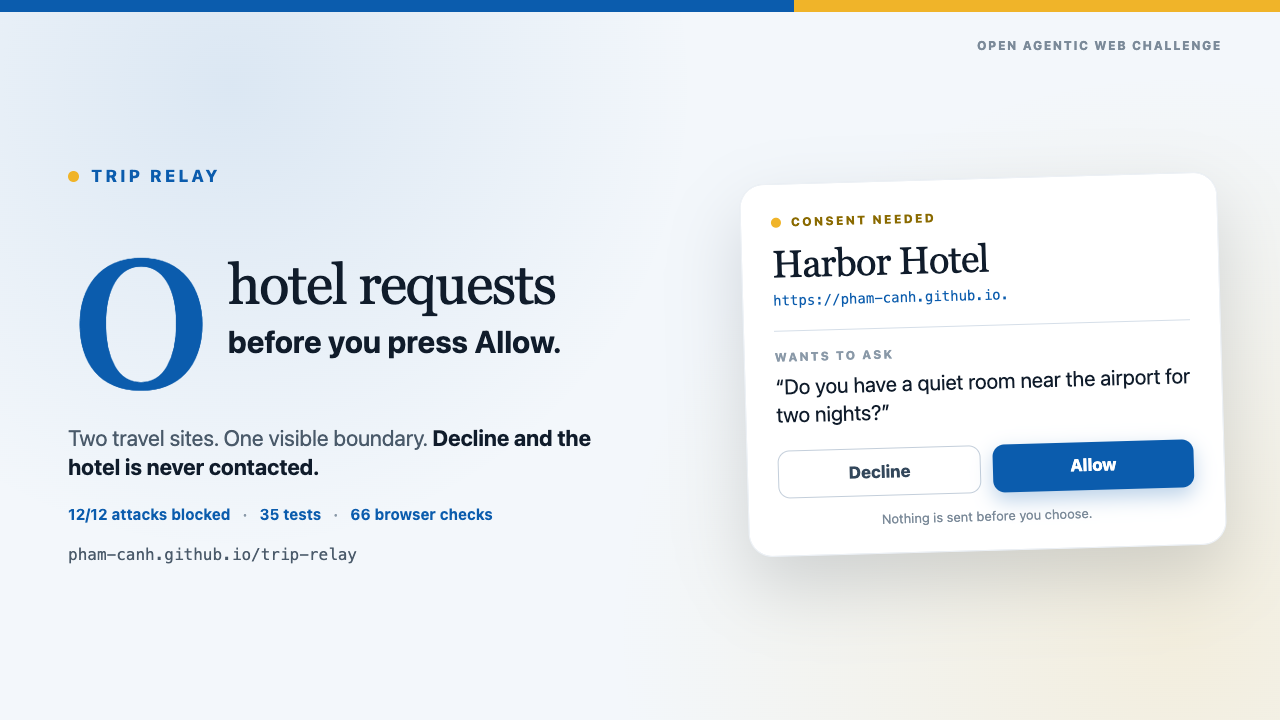
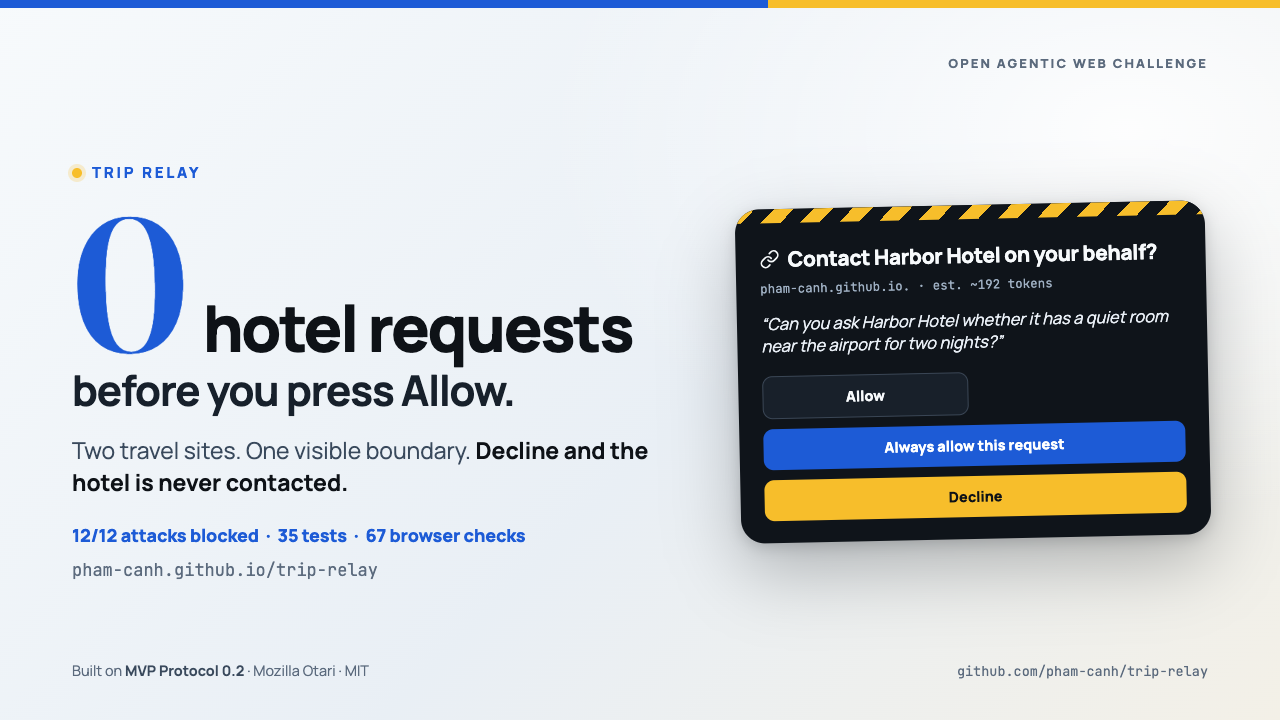
Refresh the social card and YouTube thumbnail
Use the redesigned dark consent card and the measured 67-check count, so
the public preview matches the deployed UI and the current evidence.

diff --git a/docs/SUBMIT.md b/docs/SUBMIT.md
@@ -106,6 +106,6 @@ The tests and the video use a scripted endpoint; they do not claim a live Otari 
 - [x] No API key appears in the repository or the Devpost copy; the recording uses a scripted endpoint.
 - [ ] The social preview is uploaded in **Settings → Social preview** (`docs/social-preview.png`).
 - [x] The Devpost form is submitted before the deadline; keep the confirmation email.
-- [ ] Update the live Devpost story at <https://devpost.com/software/trip-relay>: it still says 14 tests and a 16-check pass. Follow the field-by-field edit sheet in [`docs/DEVPOST-EDIT.md`](DEVPOST-EDIT.md); add the Privacy receipt and keyless-demo bullets, and add the missing `privacy-receipt.png` to the gallery.
+- [ ] Update the live Devpost story at <https://devpost.com/software/trip-relay>: it still says 14 tests, a 16-check pass, and the old tagline. Follow the field-by-field edit sheet in [`docs/DEVPOST-EDIT.md`](DEVPOST-EDIT.md); add the Privacy receipt and keyless-demo bullets, and replace the gallery with the seven recaptured images.
 - [ ] Fix the Devpost **Built With** tags with the exact list in [`docs/DEVPOST-EDIT.md`](DEVPOST-EDIT.md): Mozilla Otari, Neuro SAN, Playwright, GitHub Actions, IndexedDB.
 - [ ] Post the DLP/receipt update from `docs/DEVPOST.md` after the story is current.
